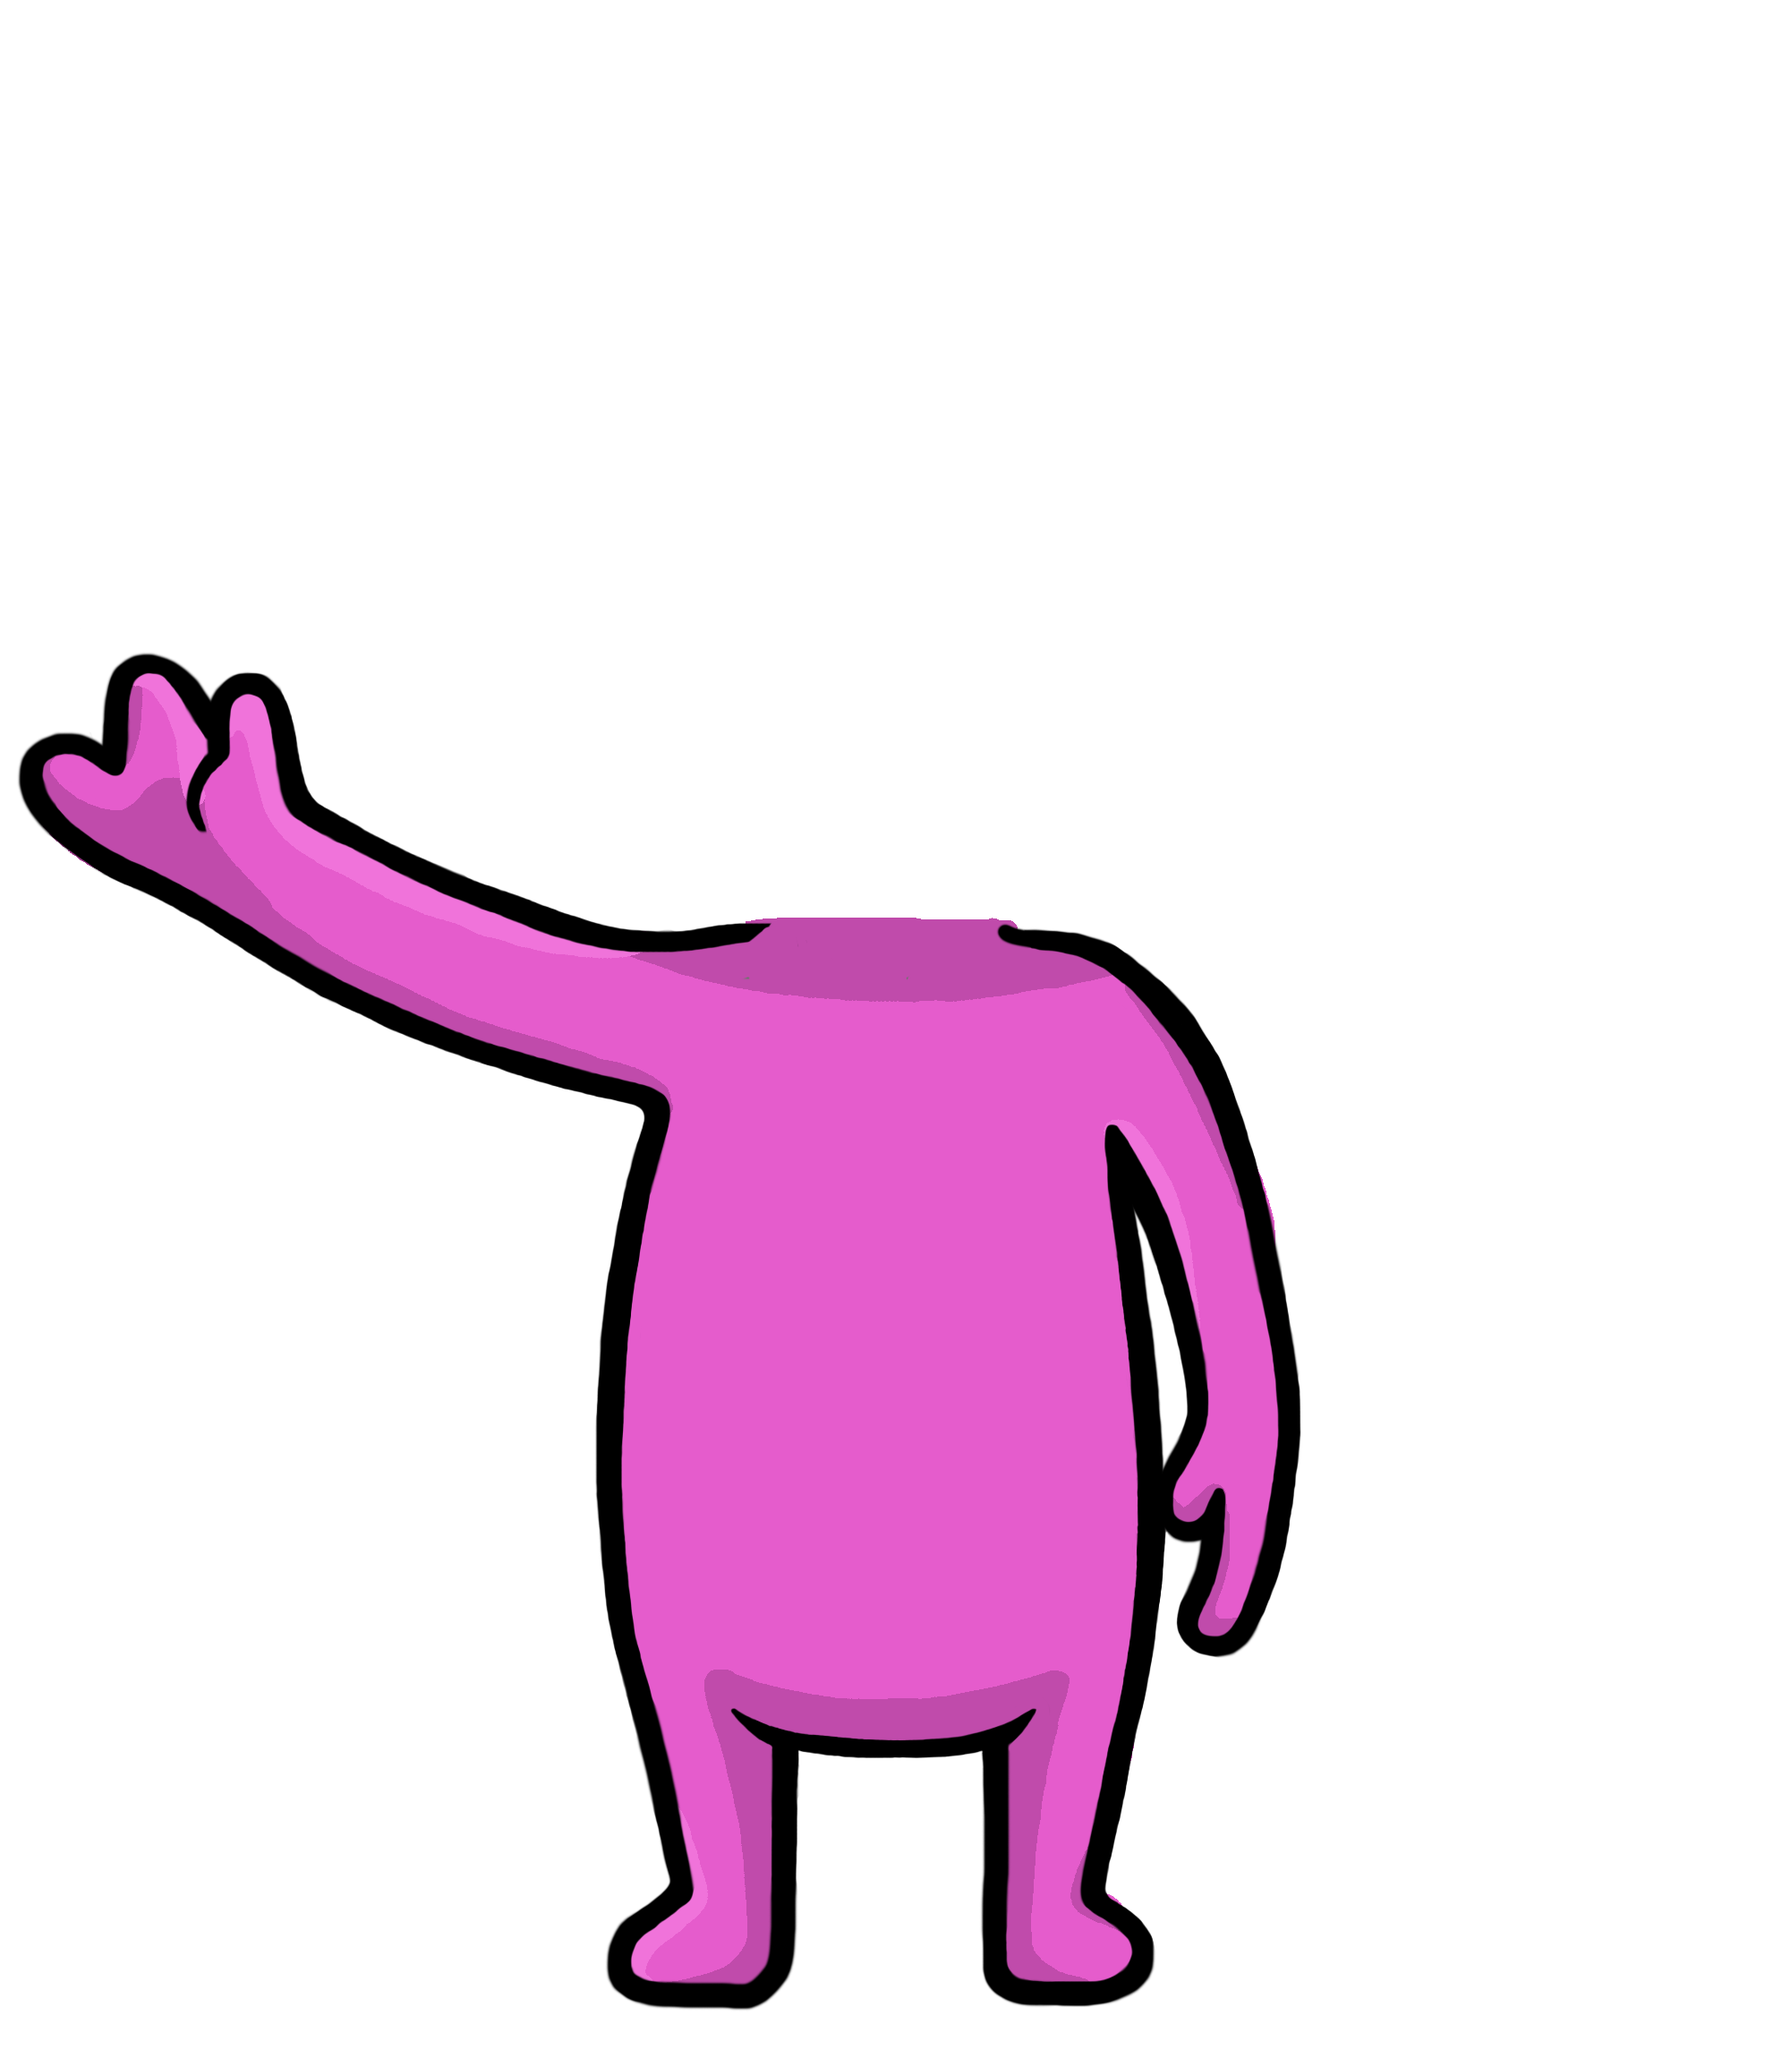
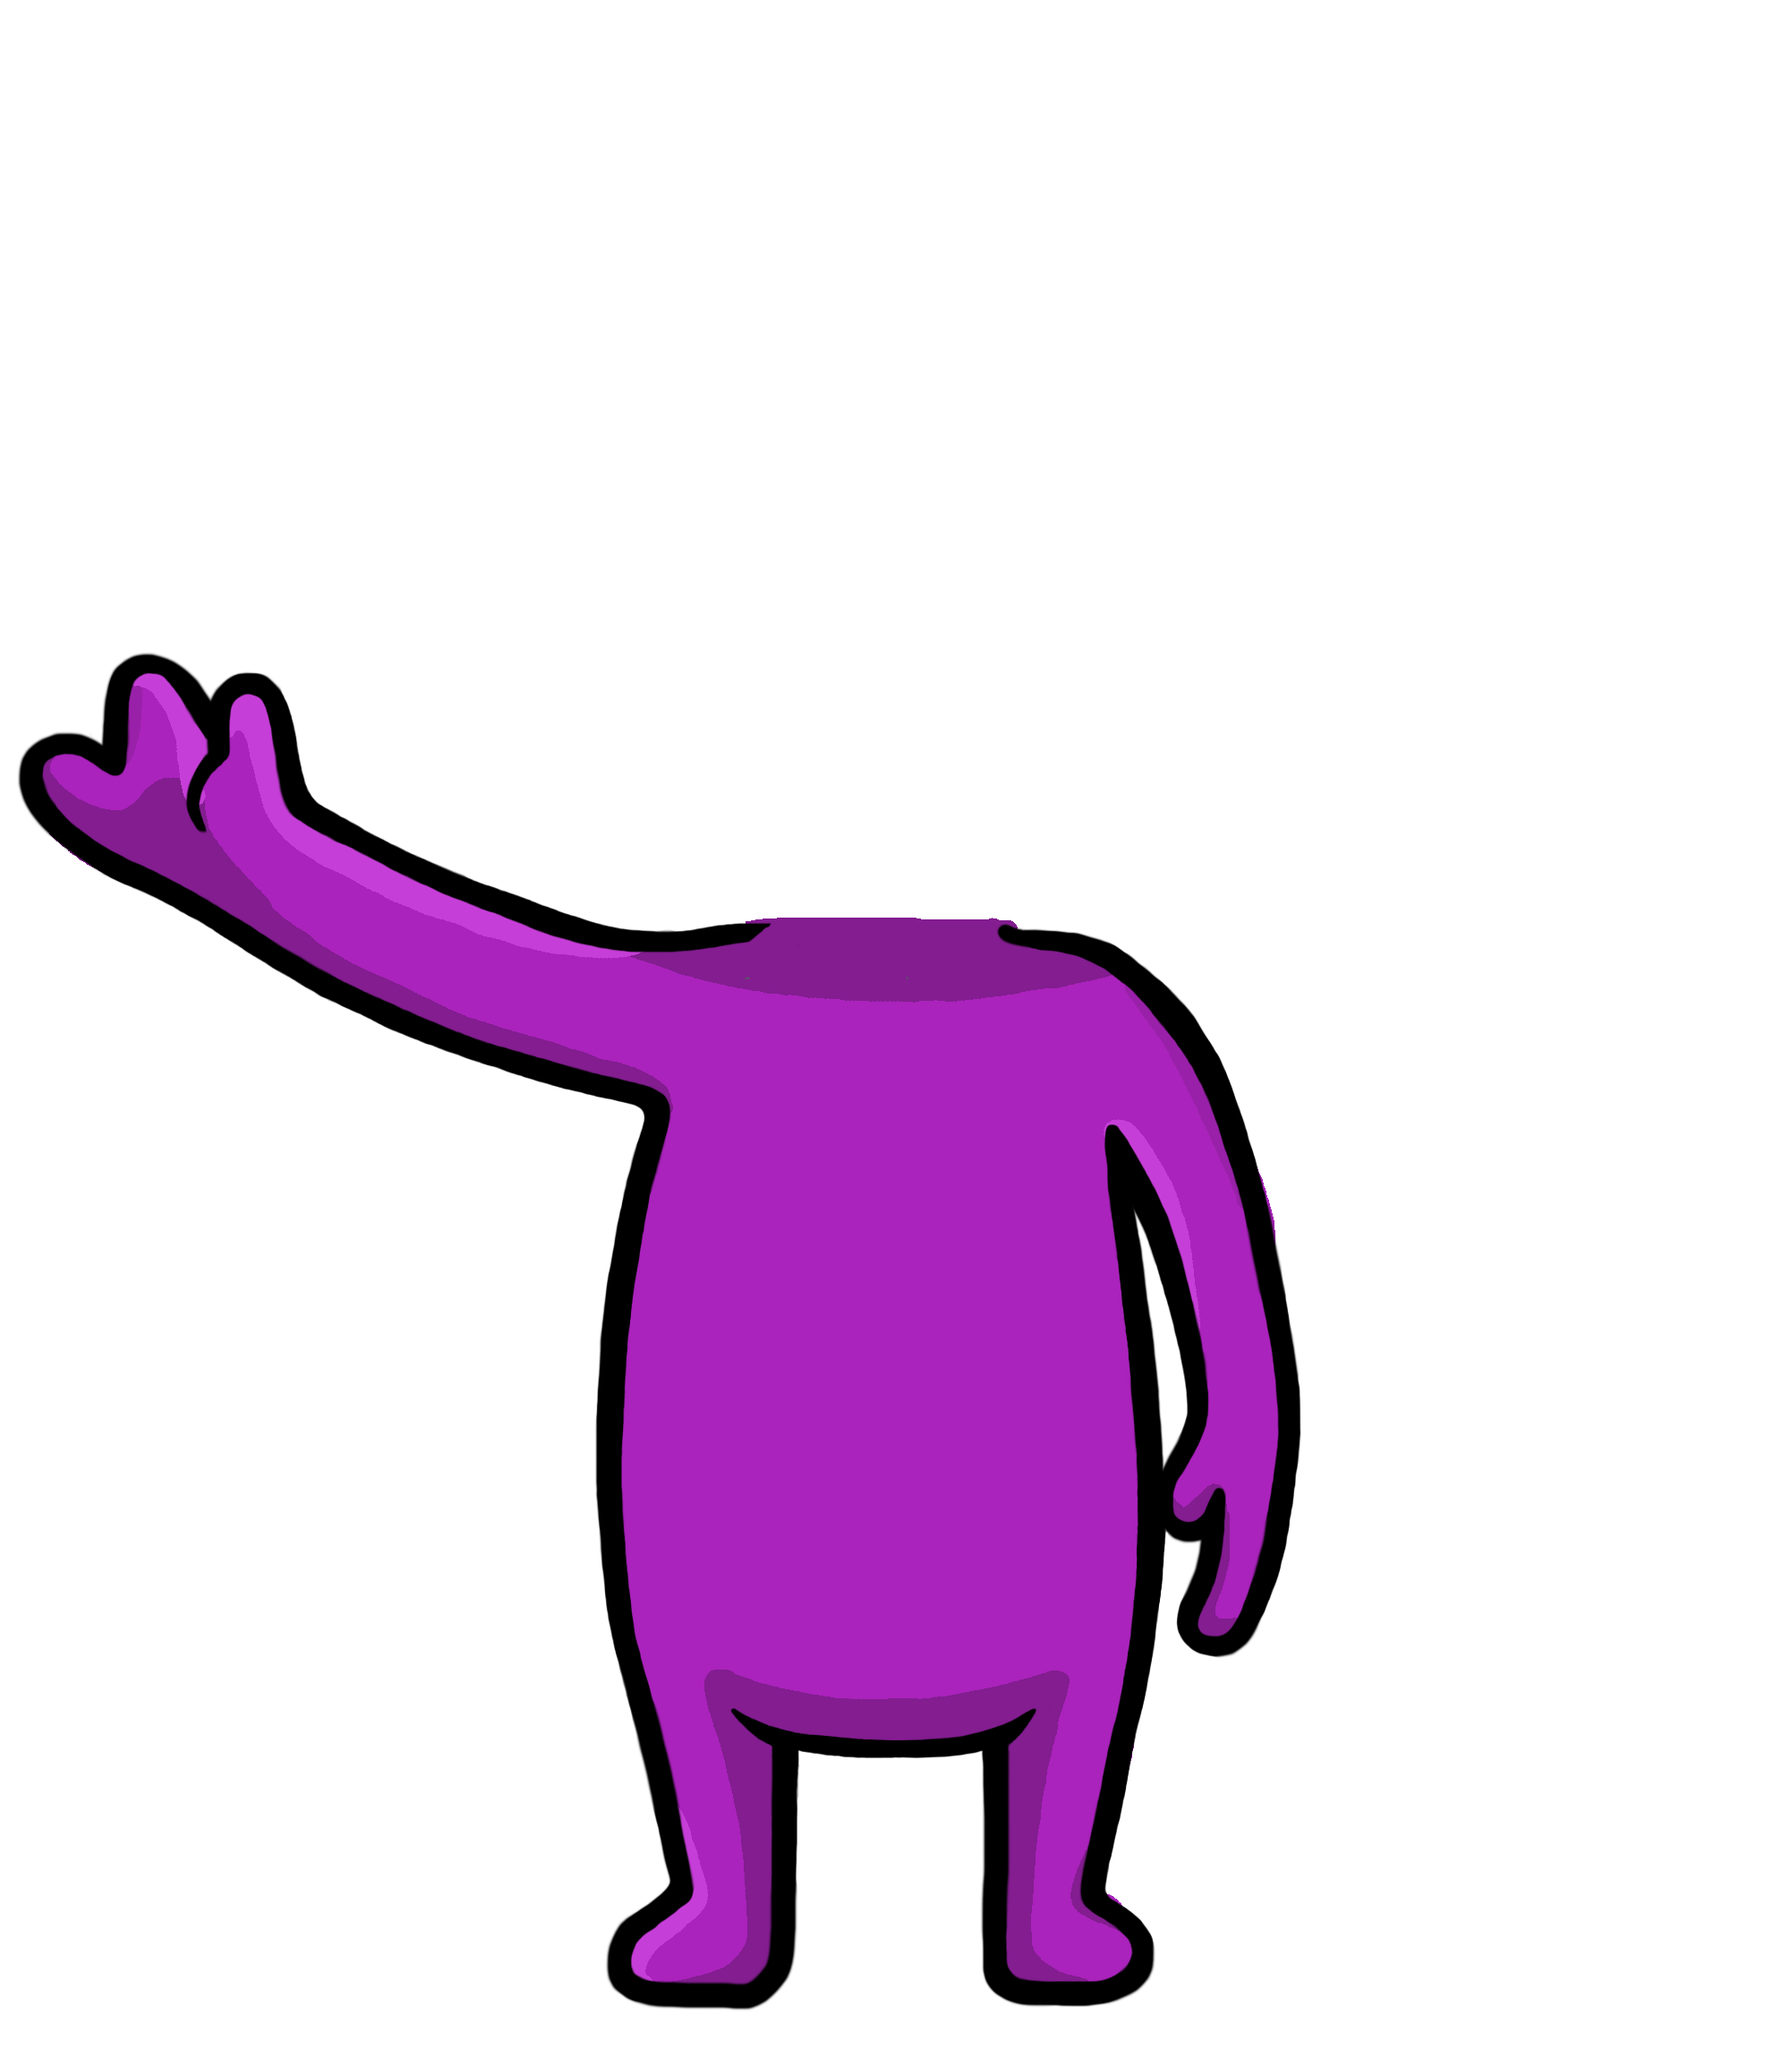
asset renamed

Changed region(s): [[0.0, 0.3087, 0.713, 0.9878]]

diff --git a/src/pages/Home.jsx b/src/pages/Home.jsx
@@ -108,7 +108,11 @@ const reducer = (state, action) => {
                     break;
 
                     case FEATURES.COLOR:
-                        return {...state, color: state.color + 1}
+                        if(state.color == 8){
+                            return {...state, color: 1}
+                      }else{
+                            return {...state, color: state.color + 1}
+                      }
                     break;
 
                 }
@@ -174,7 +178,11 @@ const reducer = (state, action) => {
                     break;
 
                     case FEATURES.COLOR:
-                        return {...state, color: state.color - 1}
+                        if(state.color == 1){
+                            return {...state, color: 8}
+                      }else{
+                            return {...state, color: state.color - 1}
+                      }
                     break;
                 }
             break;
@@ -282,12 +290,12 @@ export default function Home() {
                             </div>
                         </div>
                         <div className="emoji">
-                            <span>Body</span>
+                            <span>Color</span>
                             <div className="feature-wrapper">
-                                <button className="left-button" onClick={() => dispatch({type: ACTIONS.DECREMENT, feature: FEATURES.BODY})}>-</button>
+                                <button className="left-button" onClick={() => dispatch({type: ACTIONS.DECREMENT, feature: FEATURES.COLOR})}>-</button>
+                                <img className="base" src={require(`../images/Bodies/Body${emojis.body}${emojis.color}.png`)} />
                                 <img className="base" src={require(`../images/Heads/Head${emojis.head}${emojis.color}.png`)} />
-                                <img src={require(`../images/Bodies/Body${emojis.body}${emojis.color}.png`)} />
-                                <button className="right-button" onClick={() => dispatch({type: ACTIONS.INCREMENT, feature: FEATURES.BODY})}>+</button>
+                                <button className="right-button" onClick={() => dispatch({type: ACTIONS.INCREMENT, feature: FEATURES.COLOR})}>+</button>
                             </div>
                         </div>
                     </div>
